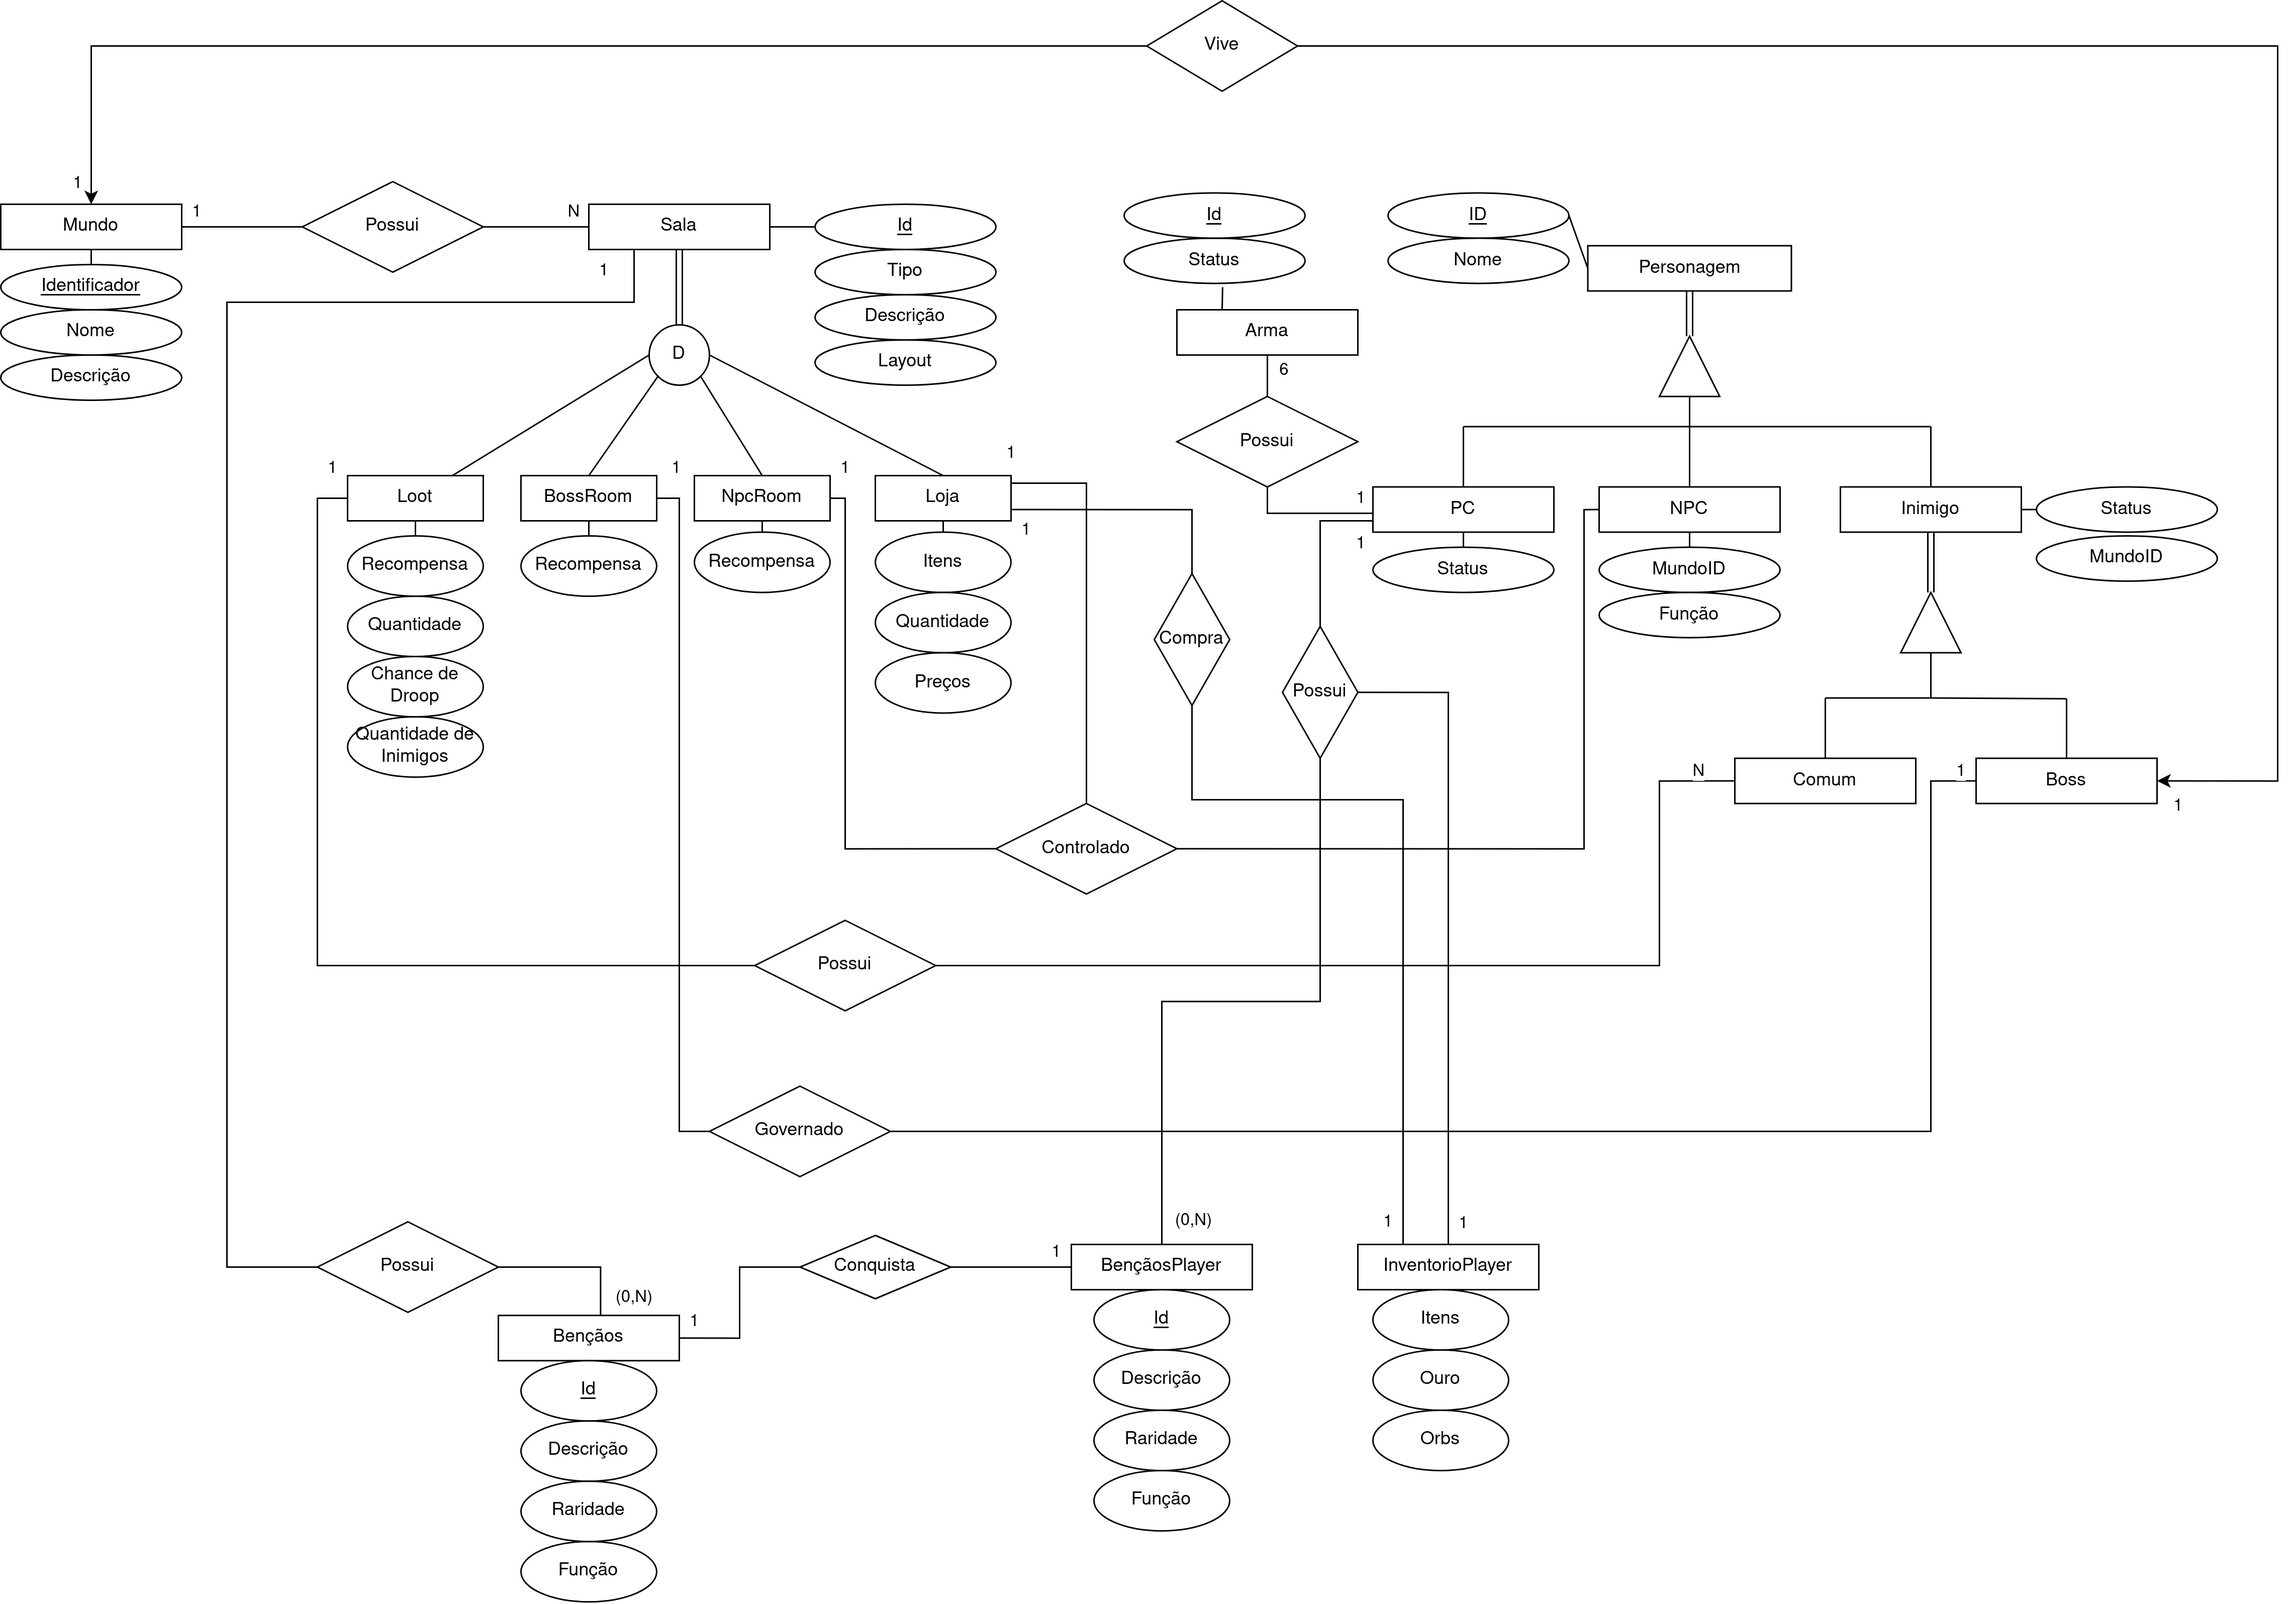
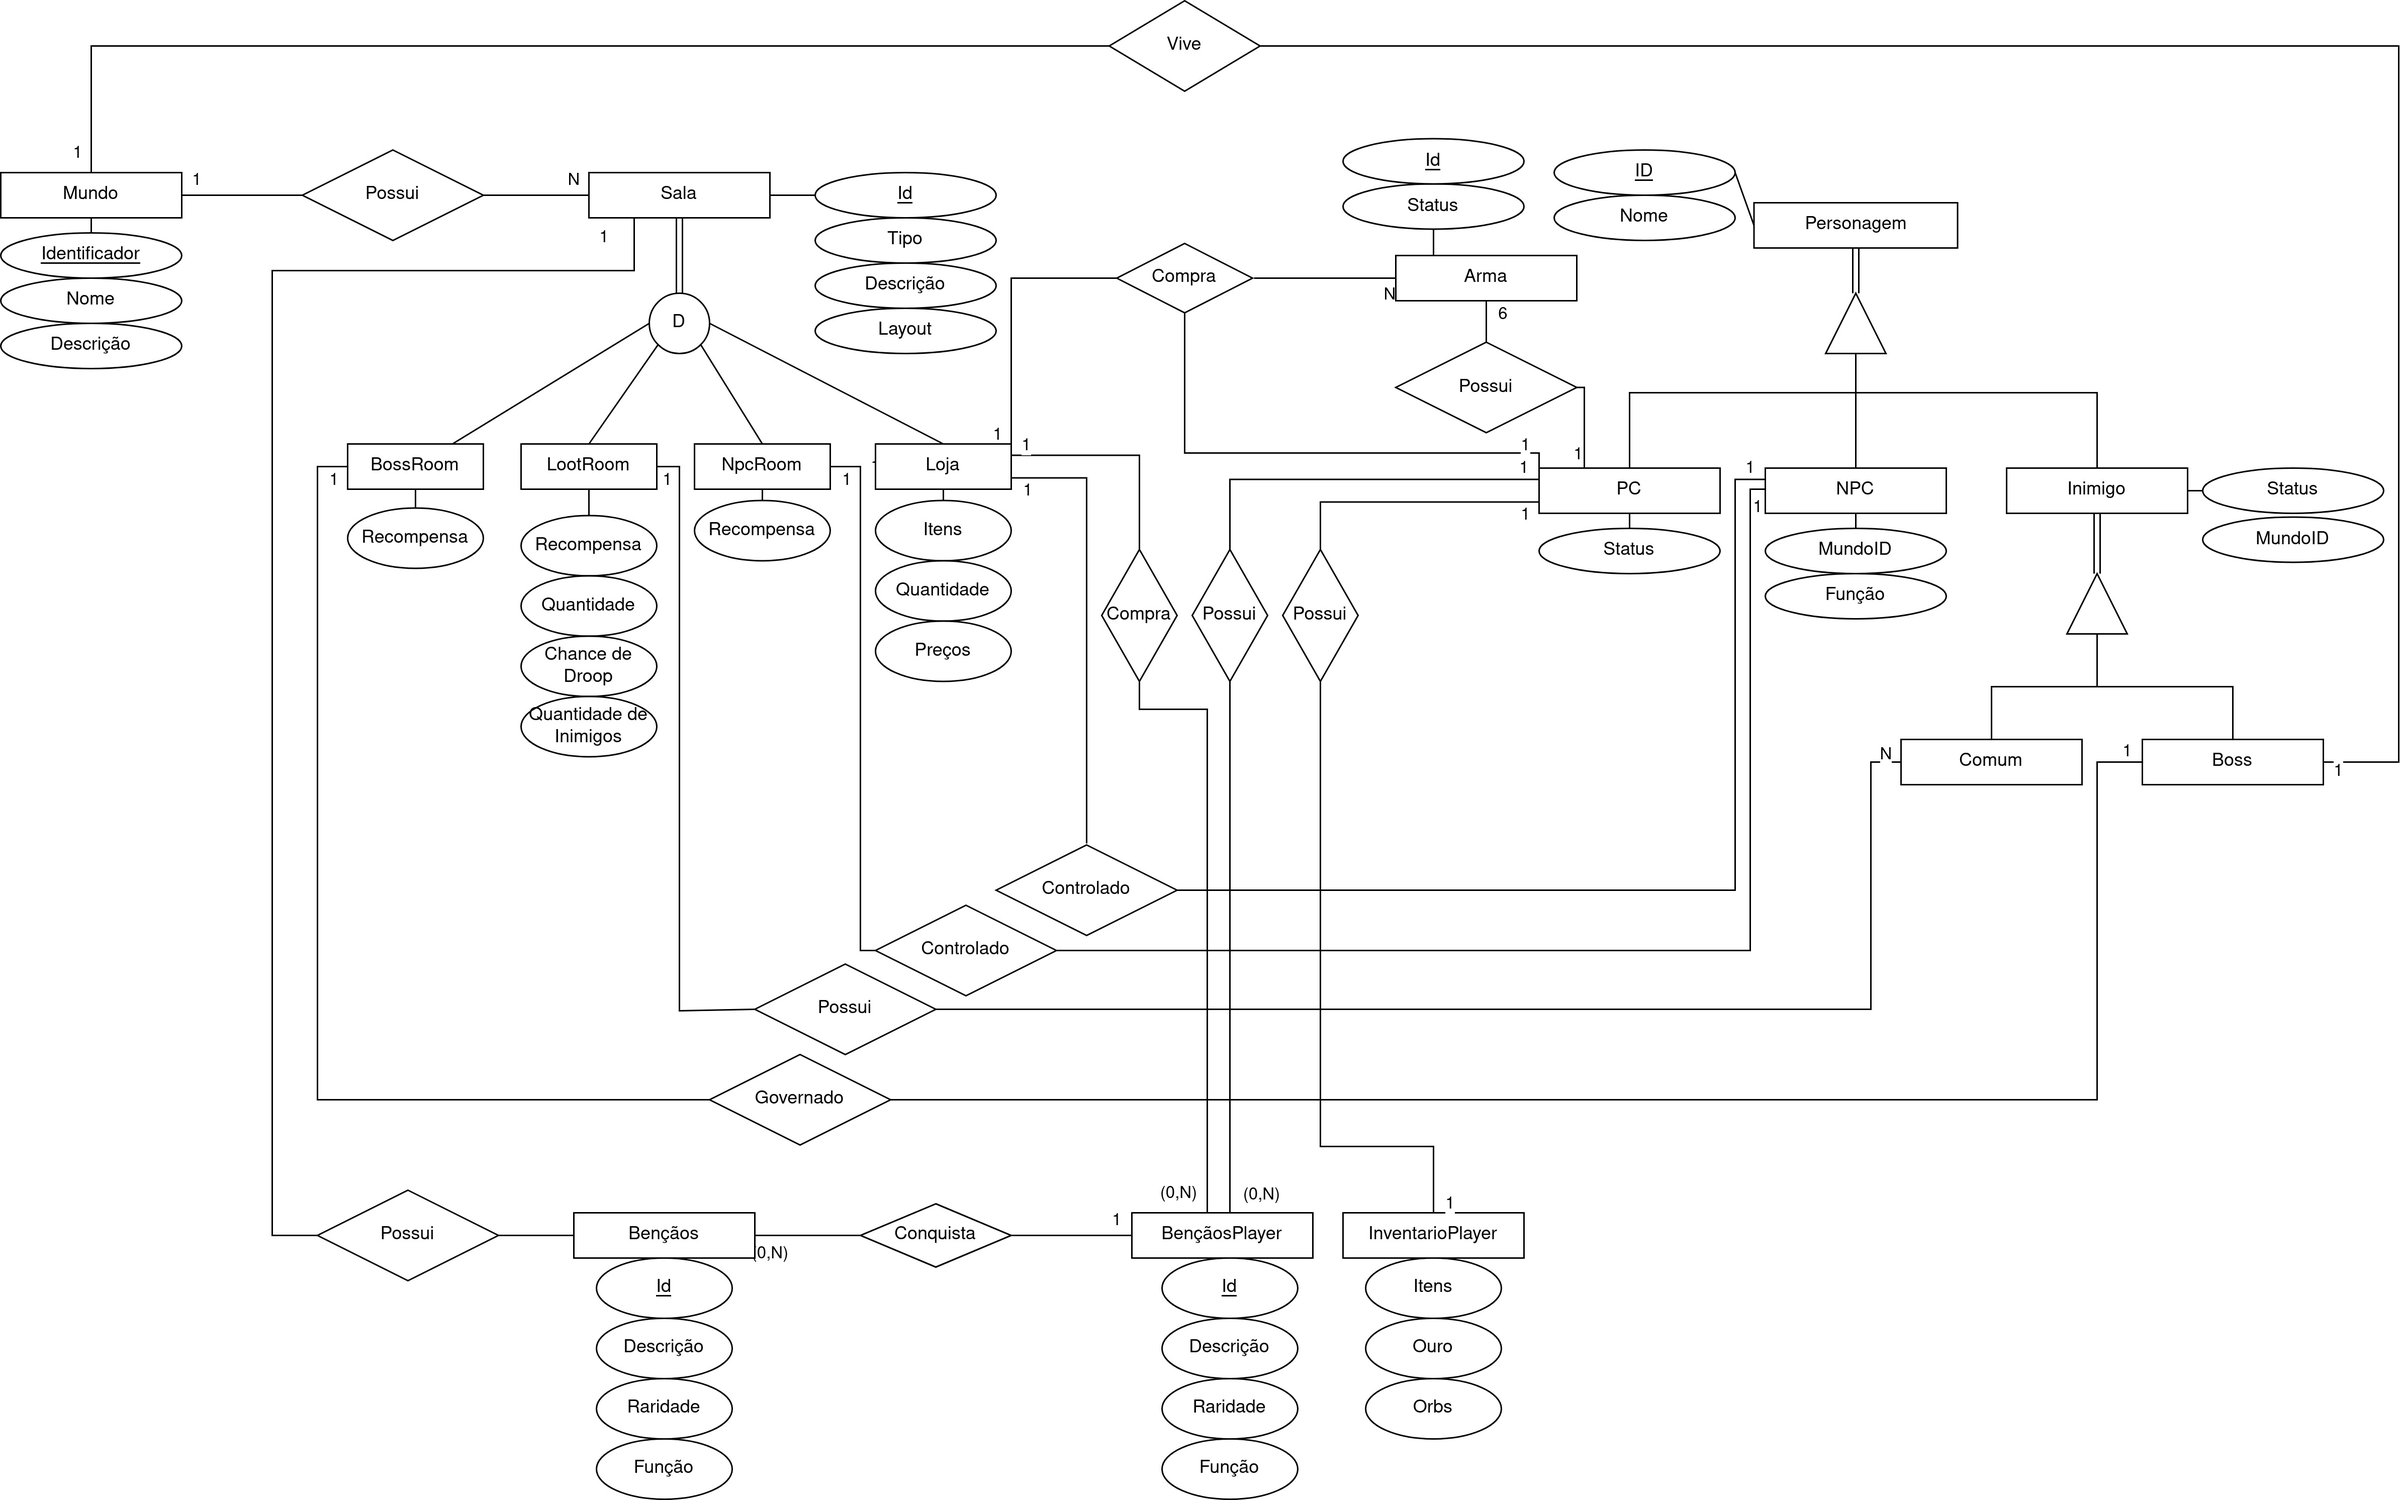
Adicionado textos e historico de versao pra o MERL e DER

diff --git a/docs/DER.md b/docs/DER.md
@@ -1,0 +1,22 @@
+## Diagrama Entidade-Relacionamento (DER)
+
+<div>
+<p>O Diagrama Entidade Relacionamento (DER) é apresenta componentes pré-estabelecidos por um padrão, componentes ester que representam visualmente os itens de um modelo entidade-relacionamento (MER). A imporância de realizar esta diagramação é fornecer apoio visual da estruturação do banco de dados e disposição dos dados armezados.</p>
+<p>O diagrama em questão desenvolvido pode ser encontrado em Figura 1.</p>
+
+<div style="text-align: center;">
+    <img src=../images/DER.jpg>
+    <p><strong>Figura 1</strong>: DER do jogo inspirado no universo do jogo Hades, Fonte: Autores.</p>
+</div>
+<p>O diagra com mais detalhes e maior qualidade pode ser encontrado em <a href="https://github.com/SBD1/2023.2-Hades/blob/main/images/DER.svg">diagrama</a>.</p>
+</div>
+
+## Histórico de versão 
+
+| Data | Versão | Descrição | Autores |
+|:------:|:--------:|-----------|-------|
+| 23/09/2023 | `1.0` | Criação da primeira versão. | [Francisco Mizael Santos](https://github.com/frmiza), [Guilherme Basílio do Espirito Santo](https://github.com/GuilhermeBES), [Joao Lucas Pinto Vasconcelos](https://github.com/HacKairos) |
+| 30/09/2023 | `1.1` | Reorganização do modelo. | [Francisco Mizael Santos](https://github.com/frmiza), [Guilherme Basílio do Espirito Santo](https://github.com/GuilhermeBES), [Joao Lucas Pinto Vasconcelos](https://github.com/HacKairos) |
+
+
+

diff --git a/docs/MERL.md b/docs/MERL.md
@@ -1,0 +1,21 @@
+## Modelo Relacional (MERL)
+
+<div>
+<p>O modelo relacional(MERL) busca fornercer apoio visual a modelagem relacional desenvolvida, nela pode-se encontrar as entidades, atributos e um melhor visualização da interação entre as entidades através de um fluxo mais intuitivo.</p>
+<p>O diagrama em questão desenvolvido pode ser encontrado em Figura 1.</p>
+
+<div style="text-align: center;">
+    <img src=../images/MER.jpg>
+    <p><strong>Figura 1</strong>: MERL do jogo inspirado no universo do jogo Hades, Fonte: Autores.</p>
+</div>
+<p>O diagra com mais detalhes e maior qualidade pode ser encontrado em <a href="https://github.com/SBD1/2023.2-Hades/blob/main/images/MER.svg">diagrama</a>.</p>
+</div>
+
+## Histórico de versão 
+
+| Data | Versão | Descrição | Autores |
+|:------:|:--------:|-----------|-------|
+| 23/09/2023 | `1.0` | Criação da primeira versão. | [Francisco Mizael Santos](https://github.com/frmiza), [Guilherme Basílio do Espirito Santo](https://github.com/GuilhermeBES), [Joao Lucas Pinto Vasconcelos](https://github.com/HacKairos) |
+
+
+
